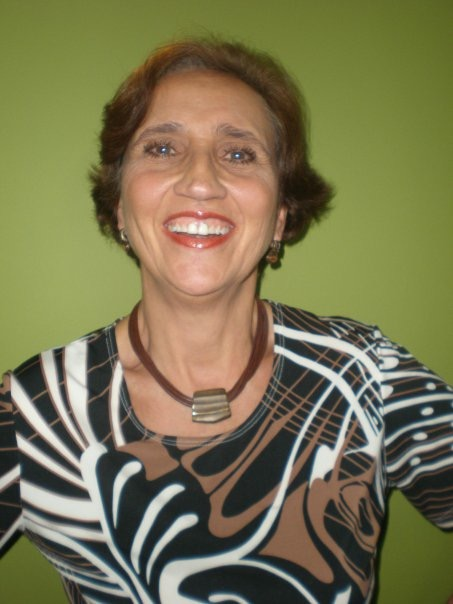
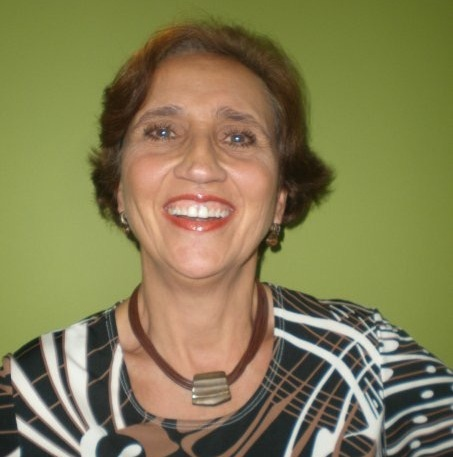
Ledita Soniapages

diff --git a/sonia.html b/sonia.html
@@ -62,17 +62,14 @@
       <div class="col-md-10 col-md-offset-1">
         <img src="img/JaimeySonia.jpg" style="margin:auto"; alt="" class="img-responsive" />
         <p>
-          praesentium voluptatum deleniti atque corrupti quos dolores et quas molestias excepturi sint Voluptatem accusantium doloremque laudantium sprea totam rem aperiam praesentium voluptatum deleniti atque corrupti quos dolores et quas molestias excepturi sint
-          Voluptatem accusantium doloremque laudantium sprea totam rem aperiam
+          Baila, canta, rie a carcajadas, quiere a todo el mundo y todo el mundo la quiere. Cuenta chistes bobitos, pero que hacen reir mas y mejor que los otros chistes. Es la amalgama, suave y aterciopelada que une a todos, muy apretaditos, pero sin que nadie se lastime. Es Sonita la de los besitos friticos.
         </p>
         <p>
-          praesentium voluptatum deleniti atque corrupti quos dolores et quas molestias excepturi sint Voluptatem accusantium doloremque laudantium sprea totam rem aperiam praesentium voluptatum deleniti atque corrupti quos dolores et quas molestias excepturi sint
-          Voluptatem accusantium doloremque laudantium sprea totam rem aperiam
+          Junto con Jaime Pieschaón se convirtieron en los patriarcas de la familia exhilada en USA. La casa de los Pieschacón Gomezese, fue como el consulado de Colombia, donde todos eramos bien recibidos, nuestros problemas y dilemas escuchados y nuestras fiestas celebradas. 
         </p>
         <p>
-          praesentium voluptatum deleniti atque corrupti quos dolores et quas molestias excepturi sint Voluptatem accusantium doloremque laudantium sprea totam rem aperiam praesentium voluptatum deleniti atque corrupti quos dolores et quas molestias excepturi sint
-          Voluptatem accusantium doloremque laudantium sprea totam rem aperiam praesentium voluptatum deleniti atque corrupti quos dolores et quas molestias excepturi sint Voluptatem accusantium doloremque laudantium sprea totam rem aperiam praesentium
-          voluptatum deleniti atque corrupti quos dolores et quas molestias excepturi sint Voluptatem accusantium doloremque laudantium sprea totam rem aperiam
+          Con algo más de 30 años de vida en los Estados Unidos, ni ellos ni sus hijas Mónica, Claudia y Catalina, traicionaron nunca sus raices. Cumplieron con el sueño americano, integrándose, pero sin dejar a un lado su esencia, como colombianos y como latinos.<br>
+		  Disfrutando de un merecido retiro, su vida en la ciudad de Coral Springs, Parkland, transcurre en medio de la tranquilidad de los objetivos cumplidos. 
         </p>
       </div>
     </div>
@@ -80,42 +77,38 @@
   <hr>
   <div class="container">
     <div class="col-md-4">
-      <img src="img/1.jpg" alt="" class="img-responsive" />
+      <img src="img/PieschFamily.jpg" alt="" class="img-responsive" />
     </div>
     <div class="col-md-8">
-      <h2>Jessa</h2>
+      <h2>Mónica</h2>
       <p>
-        praesentium voluptatum deleniti atque corrupti quos dolores et quas molestias excepturi sint Voluptatem accusantium doloremque laudantium sprea totam rem aperiam praesentium voluptatum deleniti atque corrupti quos dolores et quas molestias excepturi sint
-        Voluptatem accusantium doloremque laudantium sprea totam rem aperiam praesentium voluptatum deleniti atque corrupti quos dolores et quas molestias excepturi sint Voluptatem accusantium doloremque laudantium sprea totam rem aperiam praesentium
-        voluptatum deleniti atque corrupti quos dolores et quas molestias excepturi sint Voluptatem accusantium doloremque laudantium sprea totam rem aperiam
+        Podría haber sido la "gruinguita". Casada con Scott, familia política super gringa, vida en New Jersey, hijos, marido, amigos, conocidos <em>only English speaking</em>, Moniquita no ha perdido un ápice de su idioma, de su acento, de su encanto y de su forma latina de ser<br>
+		Sus dos hijos, Christian, oficial de la policia de NY y Jason a punto de obtener su grado en Business Administration ya están viviendo independientes y es ahora cuando ella decidió regalarnos: MONDI Producciones. Su propia compañía de producción audiovisual basada en sus habilidades como piloto de drones, talento artistico y sensibilidad musical. 
       </p>
     </div>
   </div>
   <hr>
   <div class="container">
     <div class="col-md-8">
-      <h2>Jessica</h2>
+      <h2>Claudia</h2>
       <p>
-        praesentium voluptatum deleniti atque corrupti quos dolores et quas molestias excepturi sint Voluptatem accusantium doloremque laudantium sprea totam rem aperiam praesentium voluptatum deleniti atque corrupti quos dolores et quas molestias excepturi sint
-        Voluptatem accusantium doloremque laudantium sprea totam rem aperiam praesentium voluptatum deleniti atque corrupti quos dolores et quas molestias excepturi sint Voluptatem accusantium doloremque laudantium sprea totam rem aperiam praesentium
-        voluptatum deleniti atque corrupti quos dolores et quas molestias excepturi sint Voluptatem accusantium doloremque laudantium sprea totam rem aperiam
+        Claudita, o Clotildita Espejo, como cariñosa e inexplicablemente le dice Sonita, es la hija ancla de la pareja Pieschacón Gomezese. Ella es el soporte emocional y práctico. La cercania de su casa tambien en Parkland y solo a unos minutos de distancia, es garantía de tranquilidad para todos.Claudita es artista en toda expresión de la palabra, diseñadora, creativa, empresaria,además de ser la poeta oficial y más querida de la familia.  
       </p>
     </div>
     <div class="col-md-4">
-      <img src="img/2.jpg" alt="" class="img-responsive" />
+      <img src="img/Trespieshnas.jpg" alt="" class="img-responsive" />
     </div>
   </div>
   <hr>
   <div class="container">
     <div class="col-md-4">
-      <img src="img/3.jpg" alt="" class="img-responsive" />
+      <img src="img/.jpg" alt="" class="img-responsive" />
     </div>
     <div class="col-md-8">
-      <h2>Scott</h2>
+      <h2>Catalina</h2>
       <p>
-        praesentium voluptatum deleniti atque corrupti quos dolores et quas molestias excepturi sint Voluptatem accusantium doloremque laudantium sprea totam rem aperiam praesentium voluptatum deleniti atque corrupti quos dolores et quas molestias excepturi sint
-        Voluptatem accusantium doloremque laudantium sprea totam rem aperiam praesentium voluptatum deleniti atque corrupti quos dolores et quas molestias excepturi sint Voluptatem accusantium doloremque laudantium sprea totam rem aperiam praesentium
-        voluptatum deleniti atque corrupti quos dolores et quas molestias excepturi sint Voluptatem accusantium doloremque laudantium sprea totam rem aperiam
+        Es la chiquita de la casa, pero enorme en sus logros. Conquistó a la gran manzana y en ella es su dueña y señora.<br> También creativa, su profesión la llevó a desempeñar importantes posiciones en compañías internacionales, donde sus conocimientos le han permitido pasear por el mundo, para aportar su arte a los productos que ella y la compañía para la que trabaja diseñan y venden.<br> 
+		Catalina vive en New York junto a su pareja David. 
       </p>
     </div>
   </div>
@@ -123,15 +116,13 @@
   <div class="profile">
     <div class="container">
       <div class="col-md-8">
-        <h2>James</h2>
+        <h2>Los perros!!</h2>
         <p>
-          praesentium voluptatum deleniti atque corrupti quos dolores et quas molestias excepturi sint Voluptatem accusantium doloremque laudantium sprea totam rem aperiam praesentium voluptatum deleniti atque corrupti quos dolores et quas molestias excepturi sint
-          Voluptatem accusantium doloremque laudantium sprea totam rem aperiam praesentium voluptatum deleniti atque corrupti quos dolores et quas molestias excepturi sint Voluptatem accusantium doloremque laudantium sprea totam rem aperiam praesentium
-          voluptatum deleniti atque corrupti quos dolores et quas molestias excepturi sint Voluptatem accusantium doloremque laudantium sprea totam rem aperiam
+          Si! Nuestra familia, de la mano de varias de mis sobrinas, han abrazado con entusiasmo el mundo de las mascotas. Jaime y Sonia fueron los pioneros con el simpático y amoroso Frosty y ahora ellas y muchos miembros más de nuestra familia, integran a sus perros como miembros familiares en todo su derecho. La historia de cada una de ellas cada vez mas estará asociada a los perritos o gatitos que pasan por sus vidas. 
         </p>
       </div>
       <div class="col-md-4">
-        <img src="img/4.jpg" alt="" class="img-responsive" />
+        <img src="img/PerroMon.jpg" alt="" class="img-responsive" />
       </div>
     </div>
   </div>

diff --git a/events.html b/events.html
@@ -60,7 +60,7 @@
         <div class="slider">
           <div class="img-responsive">
             <ul class="bxslider">
-              <li><img src="img/Ledita.jpeg.JPG" alt="" /></li>
+              <li><img src="img/Leditabest.JPG" alt="" /></li>
               <li><img src="img/RaulLedita.jpg" alt="" /></li>
               <li><img src="img/LeditayLelu.jpg" alt="" /></li>
             </ul>
@@ -68,12 +68,10 @@
         </div>
       </div>
       <div class="col-md-8">
-        <h2>Jessa's 5th Birthday</h2> Sunday, September 26th at 7:00 pm
+        <h2>La primera en partir hacia el <em>Reino Invisible</em></h2>
         <p>
-          praesentium voluptatum deleniti atque corrupti quos dolores et quas molestias excepturi sint Voluptatem accusantium doloremque laudantium sprea totam rem aperiam praesentium voluptatum deleniti atque corrupti quos dolores et quas molestias excepturi sint
-          Voluptatem accusantium doloremque laudantium sprea totam rem aperiam
-          <br> praesentium voluptatum deleniti atque corrupti quos dolores et quas molestias excepturi sint Voluptatem accusantium doloremque laudantium sprea totam rem aperiam praesentium voluptatum deleniti atque corrupti quos dolores et quas molestias
-          excepturi sint Voluptatem accusantium doloremque laudantium sprea totam rem aperiam
+          Fuiste la encargada de dar la bienvenida a nuestros padres a lo que poética y espiritualmente llamaste el Reino Invisible.Les dijiste que en ese reino habia fiesta por ellos, por su llegada. Nos dejaste a todos con un mejor sentimiento por su partida, sentimiento de nostalgia, sentimiento de tristeza, pero con sabor de alegría por la fiesta que nos describiste. 
+          <br> Leda Gomezese de Pacheco, fué una mujer a carta cabal. Enfrentó las muchas pruebas que la vida le planteó con entereza, valor, inteligencia y sobre todo amor. Su fe religiosa, firme e inquebrantable, siempre tendió puentes a los demás y nunca se tiñó de fanatismo.Ledita, sembró y cosechó lo mejor de ella, de su marido, de sus hijos y de todos los que la amamos y respetamos. 
         </p>
       </div>
     </div>
@@ -85,18 +83,15 @@
             <ul class="bxslider">
               <li><img src="img/RaulEFamilia.jpg" alt="" /></li>
               <li><img src="img/RaulLelu.jpg" alt="" /></li>
-              <li><img src="img/1.jpg" alt="" /></li>
+              <li><img src="img/LeditaFamilia.jpg" alt="" /></li>
             </ul>
           </div>
         </div>
       </div>
       <div class="col-md-8">
-        <h2>Jessica's 5th Birthday</h2> Sunday, September 26th at 7:00 pm
+        <h2>Los Pacheco Gomezese</h2> O... como dice Gladys Los RequetePachequitos!
         <p>
-          praesentium voluptatum deleniti atque corrupti quos dolores et quas molestias excepturi sint Voluptatem accusantium doloremque laudantium sprea totam rem aperiam praesentium voluptatum deleniti atque corrupti quos dolores et quas molestias excepturi sint
-          Voluptatem accusantium doloremque laudantium sprea totam rem aperiam
-          <br> praesentium voluptatum deleniti atque corrupti quos dolores et quas molestias excepturi sint Voluptatem accusantium doloremque laudantium sprea totam rem aperiam praesentium voluptatum deleniti atque corrupti quos dolores et quas molestias
-          excepturi sint Voluptatem accusantium doloremque laudantium sprea totam rem aperiam
+          Raul Eduardo, Aura Sofia, Carlos y Leda Lucia, dignos portadores de las raices espirituales y sociales de su madre.No son palabras vacias, es lo que vemos en cada emprendimiento, en cada idea de estos hermanos, donde siempre va adelante, como el motor y motivación principal, las causas nobles y profundas. <br> Raul Eduardo, con su esposa Claudia Glen y sus 4 hijos se radicaron en Chile, pais que adoptaron y del cual ya son ciudadanos. Raul Eduardo, después de una larga peregrinación por la arquitectura, la comunicación y el marketing, terminó encontrando y realizando su sueño al convertirse en Coach profesional de gran éxito en el ambito chileno e internacional.
         </p>
       </div>
     </div>
@@ -107,19 +102,17 @@
             <div class="img-responsive">
               <ul class="bxslider">
                 <li><img src="img/ManoloSebastFamilyKids.jpg" alt="" /></li>
-                <li><img src="img/3.jpg" alt="" /></li>
-                <li><img src="img/1.jpg" alt="" /></li>
+                <li><img src="img/PipeLelu.jpg" alt="" /></li>
+                <li><img src="img/AuraLuanda.jpg" alt="" /></li>
               </ul>
             </div>
           </div>
         </div>
         <div class="col-md-8">
-          <h2>James 5th Birthday</h2> Sunday, September 26th at 7:00 pm
+          <h2>Colombia, Chile, USA</h2> Bucaramanga, Santiago, Orlando
           <p>
-            praesentium voluptatum deleniti atque corrupti quos dolores et quas molestias excepturi sint Voluptatem accusantium doloremque laudantium sprea totam rem aperiam praesentium voluptatum deleniti atque corrupti quos dolores et quas molestias excepturi sint
-            Voluptatem accusantium doloremque laudantium sprea totam rem aperiam
-            <br> praesentium voluptatum deleniti atque corrupti quos dolores et quas molestias excepturi sint Voluptatem accusantium doloremque laudantium sprea totam rem aperiam praesentium voluptatum deleniti atque corrupti quos dolores et quas molestias
-            excepturi sint Voluptatem accusantium doloremque laudantium sprea totam rem aperiam
+            Tres paises, tres ciudades que albergan a estos ciudadanos. En Bucaramanga Aura Sofia, la artista, la mas dulce de los Pacheco Gomezese, tomó las banderas de su madre y es hoy el pilar logístico, administrativo y fraternal de sus dos amores el hermano Carlitos y Raul su padre.De esta manera ella permite que sus vidas transcurran entre la paz de las búsquedas literarias de Raul y las rutinas de Carlitos.<br>
+			Leda Lucia, Lelu, Leluchita la cantarina, la amorosa, la profesional, la coach que orgullosamente se asocia con su hermano en la búsqueda de nuevas realizaciones, vive en Orlando, casada con Felipe (Pipe) Romero, padres de la hermosa Natalia. 
           </p>
         </div>
       </div>

diff --git a/ourstory.html b/ourstory.html
@@ -66,7 +66,7 @@
        A nosotros, sus hermanos, Omar nos regaló San Gil con todo su contenido de paisajes, riachuelos, quebradas y pozos. El Gallineral, los paseos con banquete de carne seca de la señora Zoila. Sus amigos, los médicos, los Rotarios, los músicos, los choferes. Nos regaló miles de recuerdos y sus amores para que los convirtiéramos en los nuestros.
         </p>
         <p>
-          <em>Si pasas por San Gil amigo mio, por las bravas tierras de Santander</em> la hermosa canción emblema de la ciudad, resume lo que este fraternal amigo, hermano y guia significa para nosotros. No dejen de escuchar esta hermosa interpretación. Simplemente hagan click y sueñen...
+          <em>Si pasas por San Gil amigo mio, por las bravas tierras de Santander</em> la hermosa canción emblema de la ciudad, resume lo que este fraternal amigo, hermano y guia significa para nosotros. No dejen de escuchar esta hermosa interpretación. Simplemente hagan click <a href="">aqui</a>y sueñen...
         </p>
       </div>
     </div>
@@ -77,10 +77,10 @@
       <img src="img/Eugenia Agosto 2003.jpg" alt="" class="img-responsive" />
     </div>
     <div class="col-md-8">
-      <h2>Eugenia</h2>
+      <h2>Eugenia Ribero Barrera</h2>
       <p>
         San Gil siempre será Eugenia. Siempre será Omar y Eugenia, siempre será Omargenia...
-		Las vacaciones anheladas y demasiado cortas estaban asociadas a ellos. Eugenia cordial y cariñosa, lista a recibir a la tropa Gomezese, sonriente, amable y solícita. Llegar a la casa de Omar y Eugenia y unirse a sus paseos, veladas y amigos proporcionaban satisfacciónes  a grandes y chicos. Al final las vacaciones sangileñas siempre eran rubricadas por el nostálgico telegrama desde la fria Bogotá: Agradecidos atenciones. Raluisa, hijos. Buaaa! hasta el próximo año.  
+		Las vacaciones anheladas y demasiado cortas estaban asociadas a ellos. Eugenia cordial y cariñosa, lista a recibir a la tropa Gomezese, sonriente, amable y solícita. Llegar a la casa de Omar y Eugenia y unirse a sus paseos, veladas y amigos proporcionaban satisfacciónes  a grandes y chicos. Al final las vacaciones sangileñas siempre eran rubricadas por el nostálgico telegrama desde la fria Bogotá:<em>Agradecidos atenciones. Raluisa, hijos.</em> Buaaa! hasta el próximo año.  
       </p>
     </div>
   </div>
@@ -106,8 +106,8 @@
     <div class="col-md-8">
       <h2>Silvia Cristina y Maria del Pilar</h2>
       <p>
-        Silvia Cristina es Cirujano Pediatra y trabaja en el Hospital de San Gil y su consulta privada. Casada con Jose A Martinez (Chepe), también médico, obstetra. Tienen 3 hijos, Estibaliz, del primer matriomnio de Silvia Cristina y los hijos de Chepe, xxx, xxx y xxx.<br>
-        Maria del Pilar, o Pilar como le dicen, siguió mas de cerca los pasos de Omar y es Bacterióloga. Vive en Brazil en la hermosa ciudad de xxxx, casada con Osmar, donde ejerce su profesión al tiempo que dedica grandes esfuerzos a su deporte favorito el Frescobol, del cual ha sido campeona nacional y mundial varias veces. 
+        Silvia Cristina es Cirujano Pediatra trabaja en el Hospital de San Gil y tambien en su consulta privada. Casada con Jose A Martinez (Chepe), también médico, obstetra. Tienen 3 hijos, Estibaliz, del primer matriomnio de Silvia Cristina y los hijos de Chepe de su primer matrimonio Juan Jose y Diana Lucia.<br>
+        Maria del Pilar, o Pilar como le dicen, siguió mas de cerca los pasos de Omar y es Bacterióloga. Vive en Brazil en la hermosa ciudad de Macaé, donde ejerce su profesión al tiempo que dedica grandes esfuerzos a su deporte favorito, el Frescobol, del cual ha sido campeona varias veces. Maria del Pilar está casada con Osmar Nascimento.
       </p>
     </div>
   </div>
@@ -117,8 +117,8 @@
       <div class="col-md-8">
         <h2>Carlos Alberto y Omar Fernando</h2>
         <p>
-          Carlos Alberto, Ortopedista, se radicó en Bogotá, donde vive junto a su esposa Diana, también médico pediatra, y sus hijos Juliana y Felipe. Durante varios años Carlos Alberto y Diana prestaron sus invaluables servicios en el hospital de Ciudad Bolivar una de las zonas mas  pobres de Bogotá.<br>
-          Omar Fernando, alias Nando es medico anestesista, especialzado en dolor. Trabaja para la Fundacion Cardiovascular de Bucaramanaga. Con su pareja, Martica Rugeles, tuvieron una hermosa nina a quien llamaron Gabriela. Nando es un apasionado del parapente y todo lo que vuele. . 	  
+          Carlos Alberto, alias Beto, Ortopedista, se radicó en Bogotá, donde vive junto a su esposa Diana, también médico pediatra, y sus hijos Juliana y Felipe. Durante varios años Carlos Alberto y Diana prestaron sus invaluables servicios en el hospital de Ciudad Bolivar una de las zonas mas  pobres de Bogotá.<br>
+          Omar Fernando, alias Nando, es medico anestesista, especialzado en dolor. Trabaja para la Fundacion Cardiovascular de Bucaramanaga. Con su pareja, Martica Rugeles, tuvieron una hermosa nina a quien llamaron Gabriela. Nando es un apasionado del parapente y todo lo que vuele... 	  
       </div>
       <div class="col-md-4">
         <img src="img/Nandoy Beto.jpg" alt="" class="img-responsive" />

diff --git a/index5.html b/index5.html
@@ -156,14 +156,14 @@ function CalcAge(obj) {
 	<form action="" name="Age" style="margin-top:50px">
           <table border="0" cellpadding="" align="center">
             <tbody><tr> 
-              <td>Date of Birth</td>
+              <td>Fecha nacimiento (mm/dd/aaaa)</td>
               <td></td>
               <td> 
                 <input type="text" name="DoB" size="10">
               </td>
             </tr>
             <tr> 
-              <td>Age at This Date</td>
+              <td>Edad, hoy</td>
               <td></td>
               <td> 
                 <input type="text" name="DoC" size="10">
@@ -172,42 +172,42 @@ function CalcAge(obj) {
             <tr> 
               <td colspan="3"> 
                 <div align="center"> 
-                  <input type="button" name="CalculateAge" value="Calculate" onclick="CalcAge(this.form)">
+                  <input type="button" name="CalculateAge" value="Calcular" onclick="CalcAge(this.form)">
                   <input type="button" name="ClearSome" value="Clear" onclick="ResetForm(this.form)">
                 </div>
               </td>
             </tr>
             <tr> 
               <td> 
-                <div align="right">Age&nbsp;</div>
+                <div align="right">Edad&nbsp;</div>
               </td>
               <td> =&nbsp;</td>
               <td> 
                 <input type="text" name="AgeYears" size="6">
-                years 
+                años 
                 <input type="text" name="AgeRmdr" size="5">
-                months</td>
+                meses</td>
             </tr>
             <tr> 
               <td></td>
               <td>=&nbsp;</td>
               <td> 
                 <input type="text" name="AgeMonth" size="6">
-                months</td>
+                meses</td>
             </tr>
             <tr> 
               <td></td>
               <td>=&nbsp;</td>
               <td> 
                 <input type="text" name="AgeWeeks" size="6">
-                weeks</td>
+                semanas</td>
             </tr>
             <tr> 
               <td></td>
               <td>=&nbsp;</td>
               <td> 
                 <input type="text" name="AgeDays" size="6">
-                days</td>
+                dias</td>
             </tr>
           </tbody></table>
 		  </div>
@@ -249,7 +249,7 @@ function CalcAge(obj) {
 	
 	 <div class="parejas">
 	 <tr>
-	  <th style="padding:0px 5px 0px 5px">Parejas</th>
+	  <th style="padding:0px 5px 0px 5px">Conyugues</th>
       <th style="padding:0px 5px 0px 5px"></th>
       <th style="padding:0px 5px 0px 5px"></th>
       <th style="padding:0px 5px 0px 5px"></th>
@@ -267,10 +267,17 @@ function CalcAge(obj) {
       <td></td>
     </tr>
 	<tr>
+      <td>Myriam Talero</td>
+      <td>1er Matri Oscar</td>
       <td>Alicia Sotomayor</td>
       <td></td>
+	  </tr>
+	  	<tr>
       <td>Nelson Franki</td>
       <td></td>
+      <td></td>
+      <td></td>
+	  </tr>
   </div>
 	<div class="nietos">
 	<tr>
@@ -346,21 +353,21 @@ function CalcAge(obj) {
       <th style="padding:0px 5px 0px 5px"></th>
       <th style="padding:0px 5px 0px 5px"></th>
     <tr>
-      <td>Chepe</td>
+      <td>Chepe Martinez</td>
       <td></td>
-      <td>Osmar</t></td>
+      <td>Osmar Nascimento</t></td>
 	  <td></td>
     </tr>
 	<tr>
       <td>Diana</td>
       <td></td>
-      <td>Marta</td>
+      <td>Marta Rugeles</td>
       <td></td>
     </tr>
     <tr>
       <td>Claudia Glen</td>
       <td></td>
-      <td>Pipe</td>
+      <td>Felipe Romero</td>
       <td></td>
     </tr>
     <tr>
@@ -390,14 +397,14 @@ function CalcAge(obj) {
 	  	 <tr>
       <td>Nelson</td>
       <td></td>
-      <td></td>
+      <td>Leo</td>
       <td></td>
 	  </tr> 
 	  
      </div>
 	   <div class="Biznietos">
 	<tr>
-	  <th style="padding:0px 5px 0px 5px">Biznietos</th>
+	  <th style="padding:0px 5px 0px 5px">Bisnietos</th>
       <th style="padding:0px 5px 0px 5px"></th>
       <th style="padding:0px 5px 0px 5px"></th>
       <th style="padding:0px 5px 0px 5px"></th>
